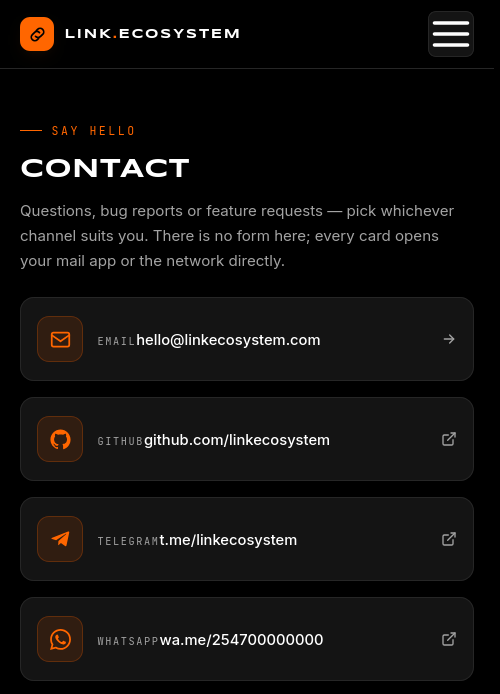
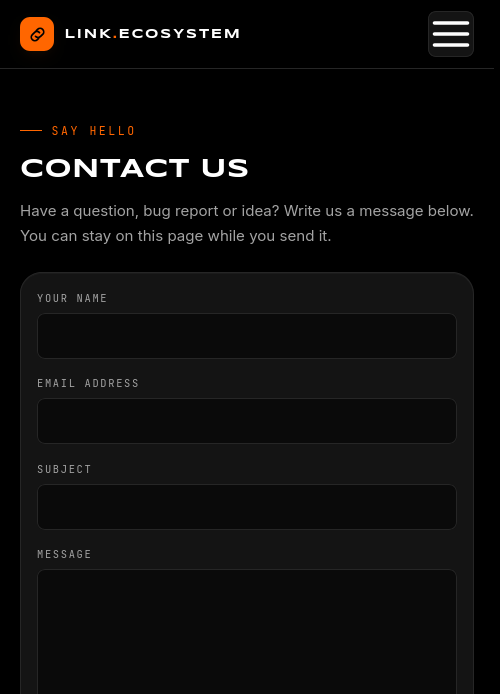
fix contact us

diff --git a/index.html b/index.html
@@ -1299,6 +1299,28 @@ section.band.alt {
 .contact-card:hover .contact-value { color: var(--accent); }
 .contact-card .ext { color: var(--text-muted); width: 16px; height: 16px; }
 
+.contact-form {
+  display: grid;
+  gap: 1.1rem;
+  width: min(100%, 760px);
+  padding: clamp(1rem, 3vw, 2rem);
+  background: var(--card);
+  border: 1px solid var(--border);
+  border-radius: var(--radius-lg);
+  box-shadow: var(--shadow-card);
+}
+.contact-form-grid { display: grid; gap: 1rem; grid-template-columns: minmax(0, 1fr); }
+@media (min-width: 640px) {
+  .contact-form-grid { grid-template-columns: repeat(2, minmax(0, 1fr)); }
+  .contact-form-grid .field-full { grid-column: 1 / -1; }
+}
+.contact-form textarea.input { min-height: 170px; resize: vertical; line-height: 1.55; }
+.contact-form-status { min-height: 1.5em; color: var(--text-muted); font-size: 0.88rem; }
+.contact-form-status[data-state="error"] { color: #ffb088; }
+.contact-form-note { color: var(--text-muted); font-size: 0.82rem; }
+.contact-form-actions { display: flex; flex-wrap: wrap; align-items: center; gap: 0.75rem 1rem; }
+.contact-form-actions .btn { flex: 0 0 auto; }
+
 .about-layout { display: grid; gap: clamp(1.5rem, 4vw, 3rem); }
 @media (min-width: 940px) { .about-layout { grid-template-columns: minmax(0, 1.5fr) minmax(0, 1fr); align-items: start; } }
 
@@ -2736,56 +2758,28 @@ section.band.alt {
 
   /* ---------- 6.5 Contact ---------- */
   function viewContact() {
-    var s = DATA.settings;
-    var cards = [];
-
-    if (s.contactEmail) {
-      var email = s.contactEmail;
-      var mailOk = /^[^\s@<>]+@[^\s@<>]+\.[^\s@<>]+$/.test(email);
-      cards.push(
-        '<a class="contact-card reveal" data-reveal href="' + (mailOk ? "mailto:" + attr(email) : "#/contact") + '">' +
-          '<span class="contact-icon" aria-hidden="true">' + ICONS.mail + "</span>" +
-          '<span class="contact-body">' +
-            '<span class="contact-label">Email</span>' +
-            '<span class="contact-value">' + esc(email) + "</span>" +
-          "</span>" +
-          '<span class="ext" aria-hidden="true">' + ICONS.arrowRight + "</span>" +
-        "</a>"
-      );
-    }
-
-    SOCIAL_META.forEach(function (sm) {
-      var url = s.social[sm.key];
-      if (!url) return;
-      cards.push(
-        '<a class="contact-card reveal" data-reveal href="' + attr(url) + '">' +
-          '<span class="contact-icon" aria-hidden="true">' + ICONS[sm.icon] + "</span>" +
-          '<span class="contact-body">' +
-            '<span class="contact-label">' + esc(sm.label) + "</span>" +
-            '<span class="contact-value">' + esc(friendlyUrl(url)) + "</span>" +
-          "</span>" +
-          '<span class="ext" aria-hidden="true">' + ICONS.external + "</span>" +
-        "</a>"
-      );
-    });
-
     return '<section class="band" aria-labelledby="contact-title">' +
       '<div class="container">' +
         '<div class="section-head">' +
           "<div>" +
             '<p class="eyebrow">Say hello</p>' +
-            '<h1 class="section-title" id="contact-title">Contact</h1>' +
-            '<p class="section-sub">Questions, bug reports or feature requests — pick whichever channel suits you. There is no form here; every card opens your mail app or the network directly.</p>' +
+            '<h1 class="section-title" id="contact-title">Contact us</h1>' +
+            '<p class="section-sub">Have a question, bug report or idea? Write us a message below. You can stay on this page while you send it.</p>' +
           "</div>" +
         "</div>" +
-        (cards.length
-          ? '<div class="grid grid-contact">' + cards.join("") + "</div>"
-          : stateBlock({
-              icon: "mail",
-              title: "No contact details yet",
-              text: "Contact information has not been added to the site data file.",
-              action: '<a class="btn btn-secondary" href="#/apps">Browse apps instead</a>'
-            })) +
+        '<form class="contact-form reveal" data-reveal id="contactForm">' +
+          '<div class="contact-form-grid">' +
+            '<div class="field"><label for="contactName">Your name</label><input class="input" id="contactName" name="name" type="text" autocomplete="name" maxlength="100" required /></div>' +
+            '<div class="field"><label for="contactEmail">Email address</label><input class="input" id="contactEmail" name="email" type="email" autocomplete="email" maxlength="254" required /></div>' +
+            '<div class="field field-full"><label for="contactSubject">Subject</label><input class="input" id="contactSubject" name="subject" type="text" maxlength="160" required /></div>' +
+            '<div class="field field-full"><label for="contactMessage">Message</label><textarea class="input" id="contactMessage" name="message" maxlength="5000" required></textarea></div>' +
+          '</div>' +
+          '<p class="contact-form-note">Email delivery is not connected yet. Your message will not be sent until we configure the secure mail service.</p>' +
+          '<div class="contact-form-actions">' +
+            '<button class="btn btn-primary" type="submit">' + ICONS.mail + 'Send message</button>' +
+            '<p class="contact-form-status" id="contactFormStatus" role="status" aria-live="polite"></p>' +
+          '</div>' +
+        '</form>' +
         '<div style="margin-top:clamp(1.5rem,4vw,2.5rem)">' +
           '<div class="cta-band reveal" data-reveal>' +
             "<div>" +
@@ -2974,6 +2968,8 @@ section.band.alt {
     } else if (route.name === "app") {
       var currentApp = appBySlug(route.param);
       if (currentApp) wireDetailPage(currentApp);
+    } else if (route.name === "contact") {
+      wireContactPage();
     }
 
     observeReveals(view);
@@ -2986,7 +2982,20 @@ section.band.alt {
      8. PAGE INTERACTIONS
      ======================================================================== */
 
-  /* ---------- 8.1 Catalogue wiring ---------- */
+  /* ---------- 8.1 Contact form wiring ---------- */
+  function wireContactPage() {
+    var form = document.getElementById("contactForm");
+    var status = document.getElementById("contactFormStatus");
+    if (!form || !status) return;
+
+    form.addEventListener("submit", function (event) {
+      event.preventDefault();
+      status.textContent = "Your message has not been sent: email delivery is not configured yet. Please try again later.";
+      status.setAttribute("data-state", "error");
+    });
+  }
+
+  /* ---------- 8.2 Catalogue wiring ---------- */
   function wireAppsPage(query) {
     var search = document.getElementById("appSearch");
     var clearBtn = document.getElementById("searchClear");
